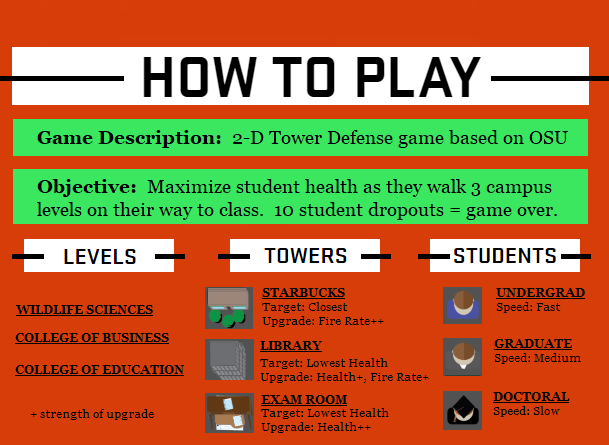
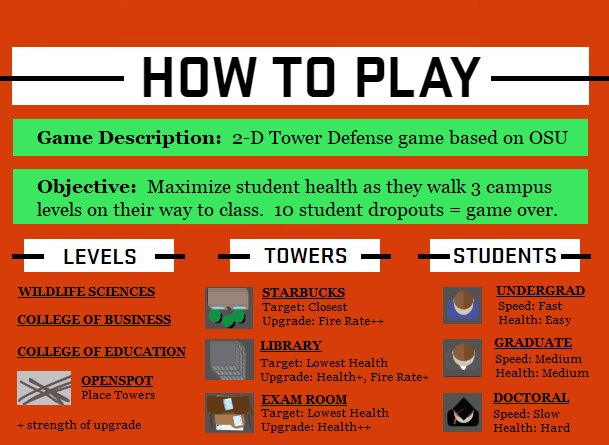
Bug Fixes:  Game Calibration, Score += HealthBar of Student
Updates to the Student prefab Speed and Health Decline attributes to calibrate level of difficulty for the College of Business level.  Updated the MoveStudent.cs script to take the remaining health of the Student vs. +10000.  Additions to the "How to Play" scene

diff --git a/Graduation Game Project/Assets/RefuelStudents.cs b/Graduation Game Project/Assets/RefuelStudents.cs
@@ -193,26 +193,6 @@ public class RefuelStudents : MonoBehaviour
         if (StarbucksData != null)
         {
 
-/*  ORIGINAL WORKING CODE - BEFORE 2/28/20 UPDATES TO LEAD STUDENTS
-
-            GameObject bulletPrefab = StarbucksData.CurrentLevel.bullet;
-
-            // set the positions of the tower and student 
-            Vector3 startPosition = gameObject.transform.position;
-            Vector3 targetPosition = target.transform.position;
-            startPosition.z = bulletPrefab.transform.position.z;
-            targetPosition.z = bulletPrefab.transform.position.z;
-
-            // instatiate a bullet and set the targets original
-            GameObject newBullet = (GameObject) Instantiate(bulletPrefab);
-            newBullet.transform.position = startPosition;
-            BulletBehavior bulletComp = newBullet.GetComponent<BulletBehavior>();
-            bulletComp.target = target.gameObject;
-            bulletComp.startPosition = startPosition;
-            bulletComp.targetPosition = targetPosition;
-*/
-
-//  NEW CODE - TARGET WHERE THE STUDENTS ARE GOING
             GameObject bulletPrefab = StarbucksData.CurrentLevel.bullet;
 
             // instatiate a bullet and set the targets original
@@ -224,7 +204,7 @@ public class RefuelStudents : MonoBehaviour
             bulletComp.target = target.gameObject;
             bulletComp.startPosition = startPosition;
             bulletComp.targetPosition = AcquireTargetPosition(target.gameObject, newBullet);
-            //Debug.Log("Actual Target - x:" + bulletComp.targetPosition.x + " y:" + bulletComp.targetPosition.y);
+
             
             // fire the bullet
             Animator animator =
@@ -237,32 +217,6 @@ public class RefuelStudents : MonoBehaviour
         if (LibraryData != null)
         {
 
-/*  ORIGINAL WORKING CODE - BEFORE 2/28/20 UPDATES TO LEAD STUDENTS
-
-            GameObject bulletPrefab = LibraryData.CurrentLevel.bullet;
-
-            // set the positions of the tower and student 
-            Vector3 startPosition = gameObject.transform.position;
-            Vector3 targetPosition = target.transform.position;
-            startPosition.z = bulletPrefab.transform.position.z;
-            targetPosition.z = bulletPrefab.transform.position.z;
-
-            // instatiate a bullet and set the targets
-            GameObject newBullet = (GameObject) Instantiate(bulletPrefab);
-            newBullet.transform.position = startPosition;
-            BulletBehavior bulletComp = newBullet.GetComponent<BulletBehavior>();
-            bulletComp.target = target.gameObject;
-            bulletComp.startPosition = startPosition;
-            bulletComp.targetPosition = targetPosition;
-
-            // fire the bullet
-            Animator animator =
-                LibraryData.CurrentLevel.visualization.GetComponent<Animator>();
-            animator.SetTrigger("fireRefuel");
-            AudioSource audioSource = gameObject.GetComponent<AudioSource>();
-            //audioSource.PlayOneRefuel(audioSource.clip);
-*/
-//  NEW CODE - TARGET WHERE THE STUDENTS ARE GOING
             GameObject bulletPrefab = LibraryData.CurrentLevel.bullet;
 
             // instatiate a bullet and set the targets original
@@ -288,31 +242,6 @@ public class RefuelStudents : MonoBehaviour
         if (ExamRoomData != null)
         {
 
-/*  ORIGINAL WORKING CODE - BEFORE 2/28/20 UPDATES TO LEAD STUDENTS
-            GameObject bulletPrefab = ExamRoomData.CurrentLevel.bullet;
-
-            // set the positions of the tower and student  
-            Vector3 startPosition = gameObject.transform.position;
-            Vector3 targetPosition = target.transform.position;
-            startPosition.z = bulletPrefab.transform.position.z;
-            targetPosition.z = bulletPrefab.transform.position.z;
-
-            // instatiate a bullet and set the targets original
-            GameObject newBullet = (GameObject) Instantiate(bulletPrefab);
-            newBullet.transform.position = startPosition;
-            BulletBehavior bulletComp = newBullet.GetComponent<BulletBehavior>();
-            bulletComp.target = target.gameObject;
-            bulletComp.startPosition = startPosition;
-            bulletComp.targetPosition = targetPosition;
-
-             // fire the bullet
-            Animator animator =
-                ExamRoomData.CurrentLevel.visualization.GetComponent<Animator>();
-            animator.SetTrigger("fireRefuel");
-            AudioSource audioSource = gameObject.GetComponent<AudioSource>();
-            //audioSource.PlayOneRefuel(audioSource.clip);
-*/
-//  NEW CODE - TARGET WHERE THE STUDENTS ARE GOING
             GameObject bulletPrefab = ExamRoomData.CurrentLevel.bullet;
 
             // instatiate a bullet and set the targets original
@@ -349,6 +278,7 @@ public class RefuelStudents : MonoBehaviour
         }
     }
 
+
     // identify where the student and bullet will meet based on current path
     // algorithm reference:  https://gamedevelopment.tutsplus.com/tutorials/unity-solution-for-hitting-moving-targets--cms-29633
 
@@ -378,7 +308,7 @@ public class RefuelStudents : MonoBehaviour
         targetPosition.y =targetStudent.gameObject.transform.position.y+(targetVelocity.y*t);
         
         return targetPosition;
-        Debug.Log("Target = x:" + targetPosition.x + " y:" + targetPosition.y);
+        
         }
     }
 

diff --git a/Graduation Game Project/Assets/Scripts/BulletBehavior.cs b/Graduation Game Project/Assets/Scripts/BulletBehavior.cs
@@ -9,21 +9,15 @@ public class BulletBehavior : MonoBehaviour
     public GameObject target;
     public Vector3 startPosition;
     public Vector3 targetPosition;
-    //public float timeInterval;
 
     private float distance;
     private float startTime;
-
-
-    private GameManagerBehavior gameManager;
 
     // Use this for initialization
     void Start()
     {
         startTime = Time.time;
         distance = Vector2.Distance(startPosition, targetPosition);
-        GameObject gm = GameObject.Find("GameManager");
-        gameManager = gm.GetComponent<GameManagerBehavior>();
     }
 
     // Update is called once per frame

diff --git a/Graduation Game Project/Assets/Scripts/MoveStudent.cs b/Graduation Game Project/Assets/Scripts/MoveStudent.cs
@@ -48,7 +48,7 @@ public class MoveStudent : MonoBehaviour
 		  		//add Money for students reaching desination
 		  		//all students add $5
 		  		gameManager.Money += 5;
-				gameManager.Score += 1000;
+				gameManager.Score += (int)gameObject.GetComponent<HealthBar>().currentHealth;
 		    	Destroy(gameObject);
 
 		    	AudioSource audioSource = gameObject.GetComponent<AudioSource>();

diff --git a/Graduation Game Project/Assets/Scripts/PauseGame.cs b/Graduation Game Project/Assets/Scripts/PauseGame.cs
@@ -14,25 +14,3 @@ public class PauseGame : MonoBehaviour
 		Time.timeScale = 1;
 	}
 }
-
-
-/* ORIGINAL WORKING SCRIPT
-
-public class PauseGame : MonoBehaviour
-{
-	bool isPaused = false;
-
-	public void pauseGame()
-	{
-		if (isPaused) {
-			Time.timeScale = 1;
-			isPaused = false;
-
-		} else {
-
-			Time.timeScale = 0;
-			isPaused = true;
-		}
-	}
-}
-*/
